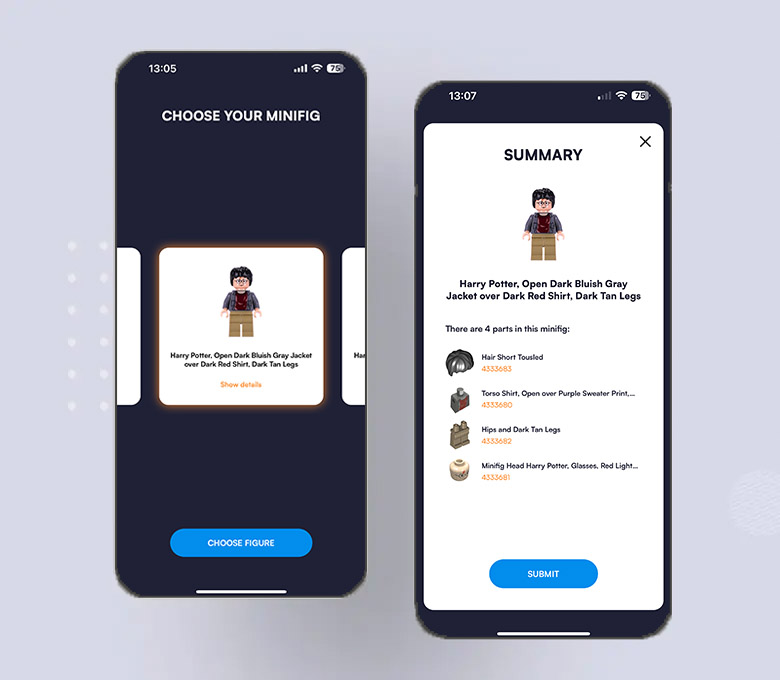
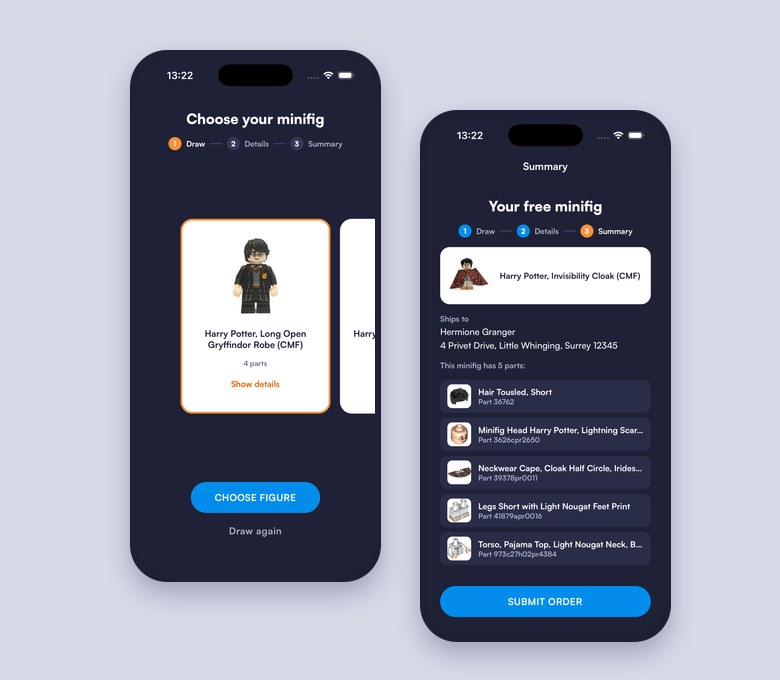
Refresh the small projects: new screenshots, live links and descriptions
- Weather Wear, GitHub AutoComplete Search, LEGO Harry Potter Minifigs and
  the portfolio itself get new marketing cards and gallery images (JPEG
  instead of full-size PNGs)
- Link the live demos (Vercel) instead of the expired weather-wear.xyz
- Update the tech lists and descriptions to match the refreshed apps

diff --git a/data/singleProjectData.js b/data/singleProjectData.js
@@ -22,18 +22,24 @@ import RrWeb4 from "../public/rrweb4.png";
 import RrWeb5 from "../public/rrweb5.gif";
 import RrWeb6 from "../public/rrweb6.gif";
 import WwMarketing from "../public/ww-marketing.jpg";
-import WwWeb1 from "../public/ww1.png";
-import WwWeb2 from "../public/ww2.png";
-import WwWeb3 from "../public/ww3.png";
+import WwWeb1 from "../public/ww1.jpg";
+import WwWeb2 from "../public/ww2.jpg";
+import WwWeb3 from "../public/ww3.jpg";
+import WwWeb4 from "../public/ww4.jpg";
 import GhacMarketing from "../public/ghac-marketing.jpg";
-import Ghac1 from "../public/ghac1.png";
-import Ghac2 from "../public/ghac2.png";
+import Ghac1 from "../public/ghac1.jpg";
+import Ghac2 from "../public/ghac2.jpg";
+import Ghac3 from "../public/ghac3.jpg";
+import Ghac4 from "../public/ghac4.jpg";
 import HpmfMarketing from "../public/hpmf-marketing.jpg";
-import Hpmf1 from "../public/hpmf1.png";
-import Hpmf2 from "../public/hpmf2.png";
-import Hpmf3 from "../public/hpmf3.png";
-import Hpmf4 from "../public/hpmf4.png";
+import Hpmf1 from "../public/hpmf1.jpg";
+import Hpmf2 from "../public/hpmf2.jpg";
+import Hpmf3 from "../public/hpmf3.jpg";
+import Hpmf4 from "../public/hpmf4.jpg";
 import Portfolio from "../public/portfolio.jpg";
+import Pf1 from "../public/pf1.jpg";
+import Pf2 from "../public/pf2.jpg";
+import Pf3 from "../public/pf3.jpg";
 import JoiynMarketing from "../public/joiyn-marketing.jpg";
 import Joiyn1 from "../public/joiyn1.jpg";
 import Joiyn2 from "../public/joiyn2.jpg";
@@ -365,43 +371,61 @@ export const singleProjectData = {
     ProjectImages: [
       {
         id: 0,
-        title: "Weather wear marketing",
+        title: "Weather Wear marketing",
         img: WwMarketing,
       },
       {
         id: 1,
-        title: "Weather wear marketing",
+        title: "Weather Wear on a sunny day",
         img: WwWeb1,
       },
       {
         id: 2,
-        title: "Weather wear screenshot",
+        title: "Weather Wear on a rainy day",
         img: WwWeb2,
       },
       {
         id: 3,
-        title: "Weather wear screenshot",
+        title: "Weather Wear in freezing weather",
         img: WwWeb3,
+      },
+      {
+        id: 4,
+        title: "Weather Wear on mobile",
+        img: WwWeb4,
       },
     ],
     ProjectInfo: {
-      ClientHeading: "Repository",
-      RepoUrl: "https://github.com/L3VU5/weather-wear",
-      LiveUrl: "https://weather-wear.xyz",
+      ClientHeading: "Links",
+      CompanyInfo: [
+        {
+          id: 1,
+          title: "Live demo",
+          details: "weather-wear on Vercel",
+          url: "https://weather-wear-paweljedrasiks-projects.vercel.app",
+        },
+        {
+          id: 2,
+          title: "Repository",
+          details: "L3VU5/weather-wear",
+          url: "https://github.com/L3VU5/weather-wear",
+        },
+      ],
       ObjectivesHeading: "Product",
       ObjectivesDetails:
-        "If you're constantly checking the weather, because you don't know what to wear outside again - this app is for you! Select your location, outfit type, and you'll get your suggestions!",
+        "If you keep checking the weather because you never know what to wear, this app is for you. Search for a city or use your location, and you get the current weather and an outfit to match it, for men or women.",
       Technologies: [
         {
           title: "Tools & Technologies",
           techs: [
-            "JavaScript",
+            "TypeScript",
             "NextJS",
             "React",
-            "Vercel",
-            "NextUI",
             "Tailwind CSS",
-            "Framer Motion",
+            "Open-Meteo API",
+            "Jest",
+            "React Testing Library",
+            "Vercel",
             "RWD",
           ],
         },
@@ -410,7 +434,12 @@ export const singleProjectData = {
       ProjectDetails: [
         {
           id: 1,
-          details: "Idea, Design, Development, Deployment.",
+          details: "Idea, design, development and deployment.",
+        },
+        {
+          id: 2,
+          details:
+            "Refreshed in 2026: Next.js 16 and React 19, no API keys needed (Open-Meteo for the weather, BigDataCloud for place names), weather-based themes and illustrations, and tests for the outfit logic and the data layer.",
         },
       ],
     },
@@ -424,9 +453,24 @@ export const singleProjectData = {
     },
     ProjectImages: [
       {
-        id: 3,
-        title: "Portfolio screenshot",
+        id: 0,
+        title: "Portfolio marketing",
         img: Portfolio,
+      },
+      {
+        id: 1,
+        title: "Portfolio home page",
+        img: Pf1,
+      },
+      {
+        id: 2,
+        title: "Portfolio selected work",
+        img: Pf2,
+      },
+      {
+        id: 3,
+        title: "Portfolio on mobile",
+        img: Pf3,
       },
     ],
     ProjectInfo: {
@@ -434,7 +478,7 @@ export const singleProjectData = {
       RepoUrl: "https://github.com/L3VU5/portfolio-paweljedrasik",
       ObjectivesHeading: "Product",
       ObjectivesDetails:
-        "It's the app you're currently using! Snoop around, play with forms, galleries and themes. Have fun!",
+        "It's the app you're currently using! Snoop around, play with the project pages, galleries and forms. Have fun!",
       Technologies: [
         {
           title: "Tools & Technologies",
@@ -442,9 +486,11 @@ export const singleProjectData = {
             "JavaScript",
             "NextJS",
             "React",
-            "Vercel",
             "Tailwind CSS",
             "Framer Motion",
+            "Jest",
+            "React Testing Library",
+            "Vercel",
             "RWD",
           ],
         },
@@ -453,7 +499,7 @@ export const singleProjectData = {
       ProjectDetails: [
         {
           id: 1,
-          details: "Idea, Development, Deployment.",
+          details: "Idea, design, development and deployment.",
         },
       ],
     },
@@ -473,38 +519,59 @@ export const singleProjectData = {
       },
       {
         id: 1,
-        title: "GitHub AutoComplete marketing",
+        title: "GitHub AutoComplete empty state",
         img: Ghac1,
       },
       {
         id: 2,
-        title: "GitHub AutoComplete marketing",
+        title: "GitHub AutoComplete repository results",
         img: Ghac2,
+      },
+      {
+        id: 3,
+        title: "GitHub AutoComplete user results",
+        img: Ghac3,
+      },
+      {
+        id: 4,
+        title: "GitHub AutoComplete on mobile",
+        img: Ghac4,
       },
     ],
     ProjectInfo: {
-      ClientHeading: "Repository",
-      RepoUrl: "https://github.com/L3VU5/GitHub-Autocomplete-Search",
+      ClientHeading: "Links",
+      CompanyInfo: [
+        {
+          id: 1,
+          title: "Live demo",
+          details: "git-hub-autocomplete-search on Vercel",
+          url: "https://git-hub-autocomplete-search.vercel.app",
+        },
+        {
+          id: 2,
+          title: "Repository",
+          details: "L3VU5/GitHub-Autocomplete-Search",
+          url: "https://github.com/L3VU5/GitHub-Autocomplete-Search",
+        },
+      ],
       ObjectivesHeading: "Product",
       ObjectivesDetails:
-        "Showcase of an AutoComplete component. In this project it's using the GitHub API to search for matching Repositories and Users.",
+        "Showcase of an AutoComplete component: accessible (ARIA combobox, keyboard navigation) and debounced. Here it searches GitHub repositories and users through the GraphQL API.",
       Technologies: [
         {
           title: "Tools & Technologies",
           techs: [
-            "JavaScript",
             "TypeScript",
             "NextJS",
             "React",
-            "Vercel",
             "Tailwind CSS",
-            "RWD",
+            "GraphQL",
+            "Apollo Client",
+            "GitHub API",
             "Jest",
             "React Testing Library",
-            "GraphQL",
-            "Apollo",
-            "Lodash",
-            "GitHub API",
+            "Vercel",
+            "RWD",
           ],
         },
       ],
@@ -512,7 +579,12 @@ export const singleProjectData = {
       ProjectDetails: [
         {
           id: 1,
-          details: "Design, Development, Deployment.",
+          details: "Design, development and deployment.",
+        },
+        {
+          id: 2,
+          details:
+            "Refreshed in 2026: Next.js 16 and React 19, the GitHub token moved to the server behind a small API route that only allows the search query, and tests for the component, the helpers and that route.",
         },
       ],
     },
@@ -527,27 +599,27 @@ export const singleProjectData = {
     ProjectImages: [
       {
         id: 0,
-        title: "Harry Potter Minifig marketing",
+        title: "Harry Potter Minifigs marketing",
         img: HpmfMarketing,
       },
       {
         id: 1,
-        title: "Harry Potter Minifig marketing",
+        title: "Harry Potter Minifigs home screen",
         img: Hpmf1,
       },
       {
         id: 2,
-        title: "Harry Potter Minifig marketing",
+        title: "Harry Potter Minifigs drawn figures",
         img: Hpmf2,
       },
       {
         id: 3,
-        title: "Harry Potter Minifig marketing",
+        title: "Harry Potter Minifigs delivery details",
         img: Hpmf3,
       },
       {
         id: 4,
-        title: "Harry Potter Minifig marketing",
+        title: "Harry Potter Minifigs order summary",
         img: Hpmf4,
       },
     ],
@@ -556,19 +628,20 @@ export const singleProjectData = {
       RepoUrl: "https://github.com/L3VU5/lego-harry-potter-minifig",
       ObjectivesHeading: "Product",
       ObjectivesDetails:
-        "Simple application, that allows user to draw five random LEGO Harry Potter Minifigs and select one of them for free. It utilizes Rebrickable API for data.",
+        "Draw five random LEGO Harry Potter minifigs, pick one for free, fill in the delivery details and check the summary with every part of the figure. The data comes from the Rebrickable API.",
       Technologies: [
         {
           title: "Tools & Technologies",
           techs: [
-            "React.js",
             "React Native",
-            "React Navigation",
-            "TypeScript",
             "Expo",
+            "TypeScript",
+            "React Navigation",
             "TanStack Query",
             "React Hook Form",
             "Styled Components",
+            "Jest",
+            "React Native Testing Library",
           ],
         },
       ],
@@ -576,7 +649,12 @@ export const singleProjectData = {
       ProjectDetails: [
         {
           id: 1,
-          details: "Design, Development, Deployment.",
+          details: "Design and development.",
+        },
+        {
+          id: 2,
+          details:
+            "Refreshed in 2026: Expo SDK 58 with React Native 0.88, a dark redesign, fixes in the random draw and the parts list, proper loading and error states, and tests.",
         },
       ],
     },
